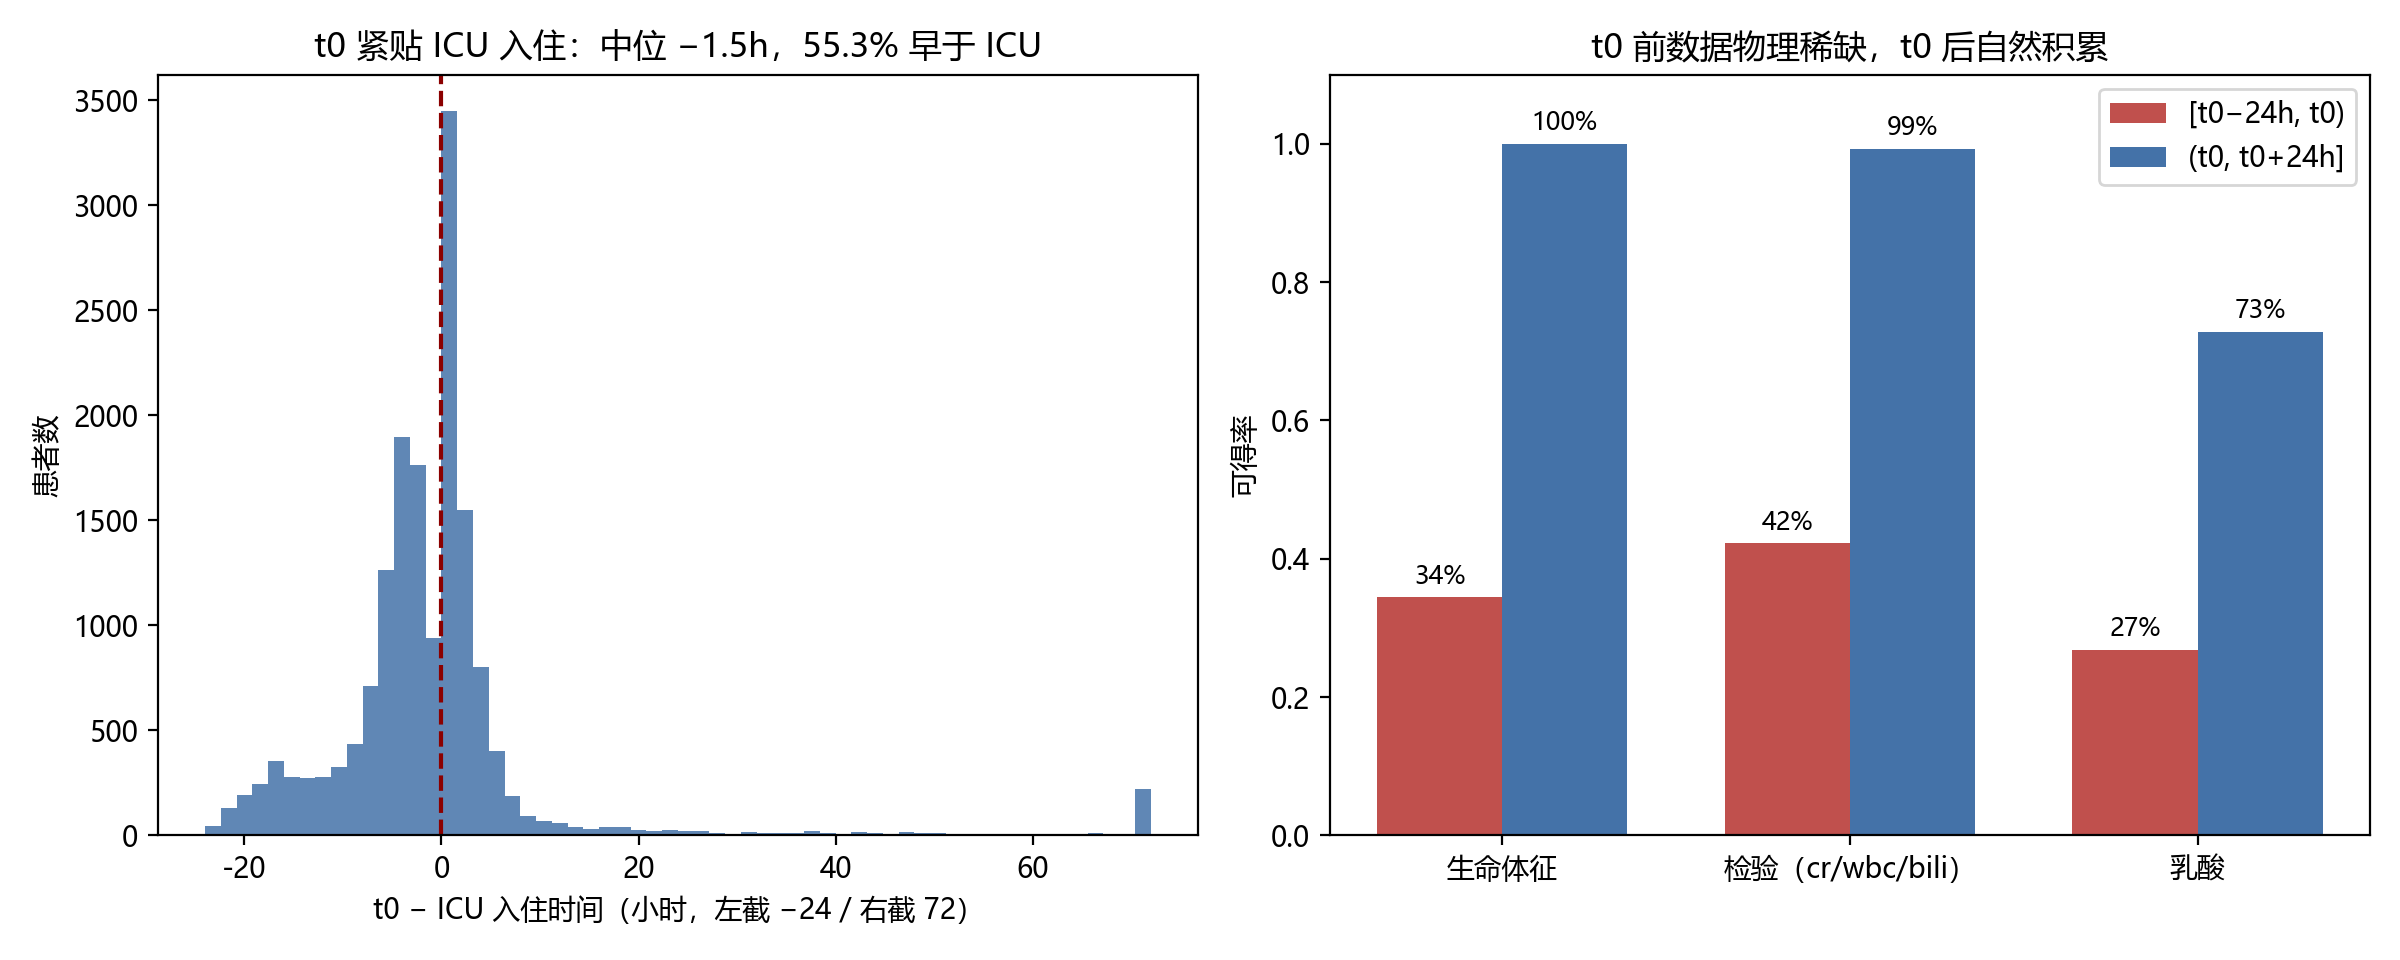
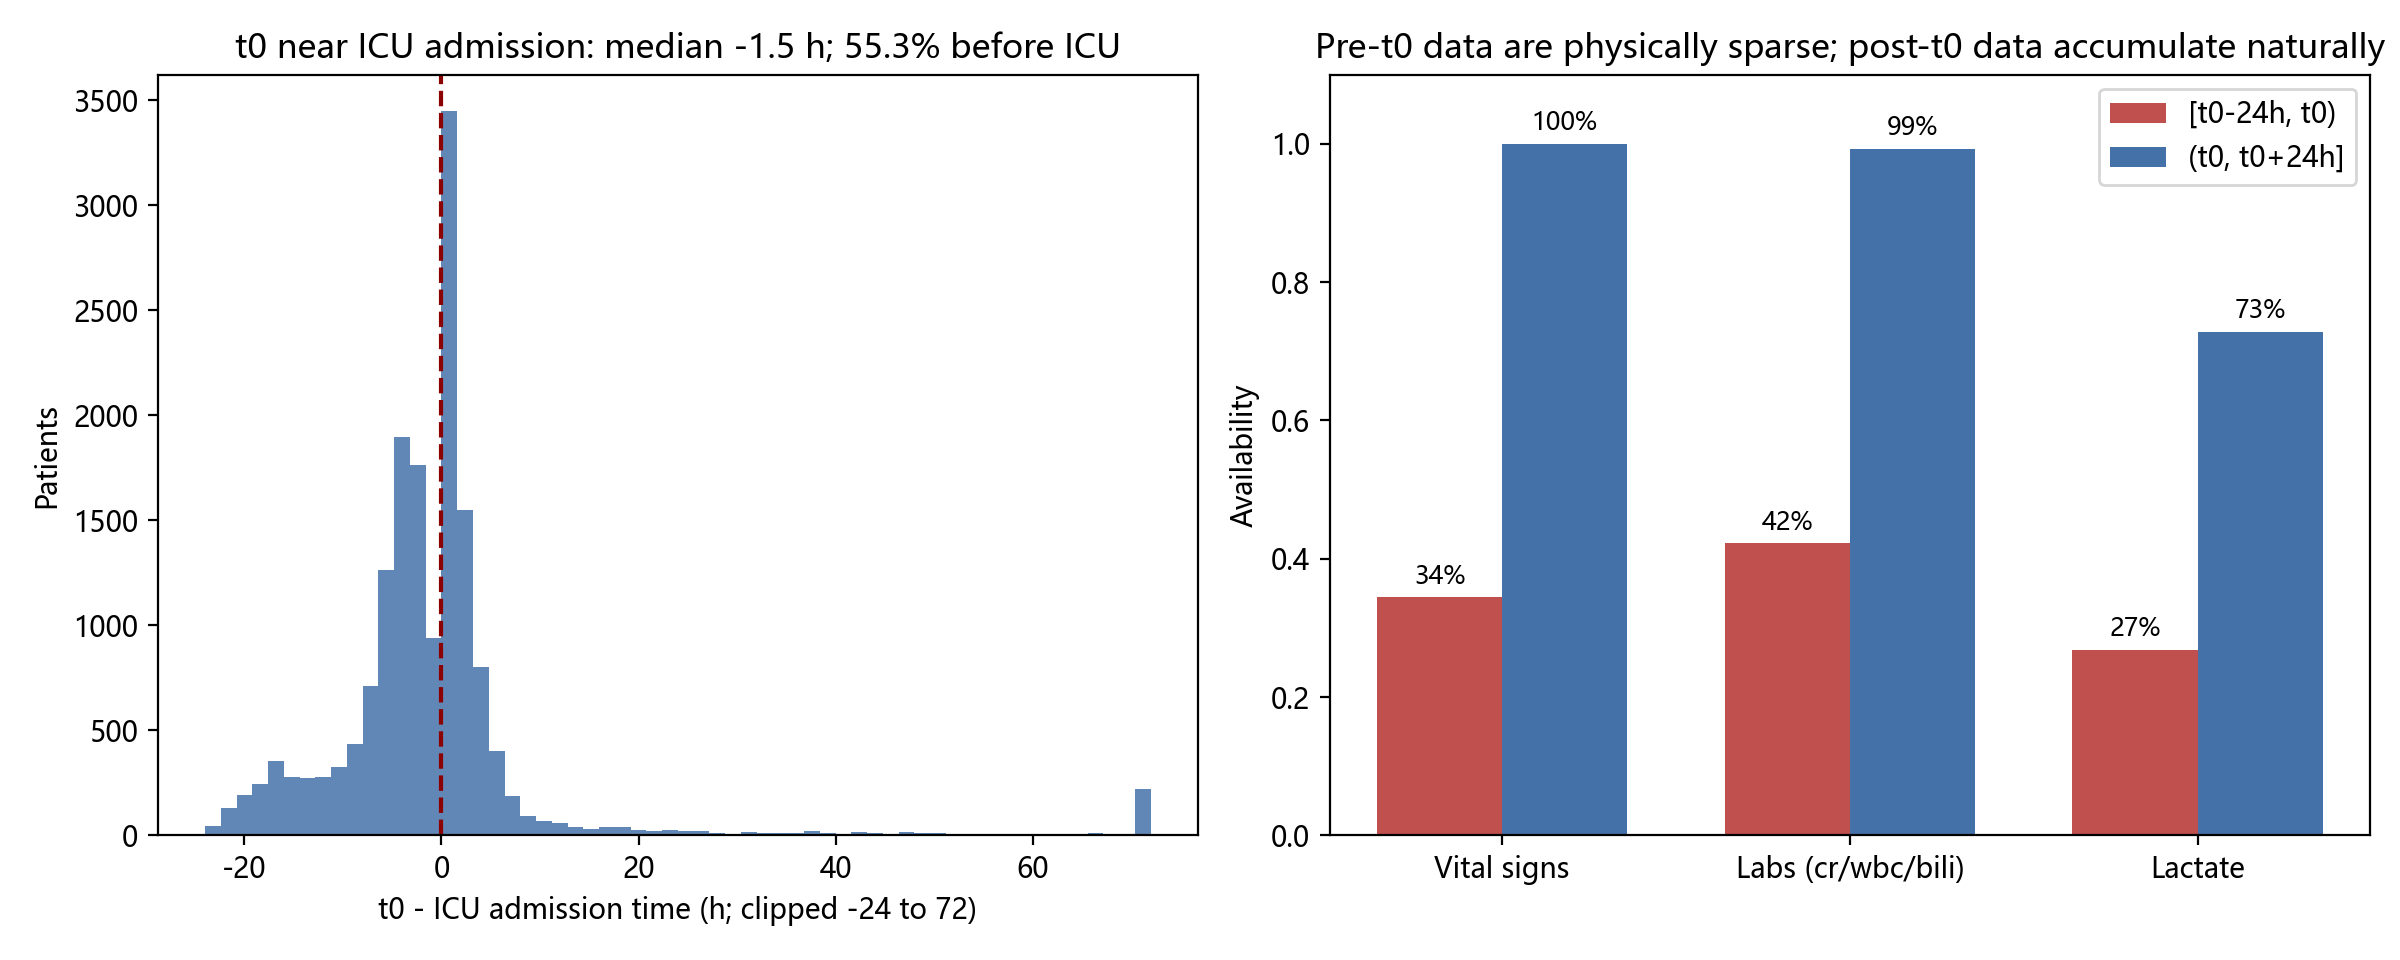
Figure 9 时间结构图改为英文标签

diff --git a/src/timing_structure.py b/src/timing_structure.py
@@ -66,48 +66,51 @@ def main() -> None:
         av[c_] = av[c_].fillna(0)
 
     stats_rows = [
-        ("t0 - icu_intime 中位数（h）", f"{dt_h.median():.2f}"),
-        ("t0 - icu_intime IQR（h）", f"{dt_h.quantile(0.25):.2f} ~ {dt_h.quantile(0.75):.2f}"),
-        ("t0 早于 ICU 入住比例", f"{(dt_h < 0).mean():.1%}"),
-        ("t0 在 ICU 入住 ±6h 内比例", f"{(dt_h.abs() <= 6).mean():.1%}"),
-        ("生命体征 [t0-24h,t0) 可得率", f"{av['vit_pre'].mean():.1%}"),
-        ("生命体征 (t0,t0+24h] 可得率", f"{av['vit_post'].mean():.1%}"),
-        ("检验 [t0-24h,t0) 可得率", f"{av['lab_pre'].mean():.1%}"),
-        ("检验 (t0,t0+24h] 可得率", f"{av['lab_post'].mean():.1%}"),
-        ("乳酸 [t0-24h,t0) 可得率", f"{av['lac_pre'].mean():.1%}"),
-        ("乳酸 (t0,t0+24h] 可得率", f"{av['lac_post'].mean():.1%}"),
+        ("t0 - ICU admission time, median (h)", f"{dt_h.median():.2f}"),
+        ("t0 - ICU admission time, IQR (h)", f"{dt_h.quantile(0.25):.2f} ~ {dt_h.quantile(0.75):.2f}"),
+        ("t0 before ICU admission", f"{(dt_h < 0).mean():.1%}"),
+        ("t0 within +-6 h of ICU admission", f"{(dt_h.abs() <= 6).mean():.1%}"),
+        ("Vital signs [t0-24h,t0) availability", f"{av['vit_pre'].mean():.1%}"),
+        ("Vital signs (t0,t0+24h] availability", f"{av['vit_post'].mean():.1%}"),
+        ("Laboratory tests [t0-24h,t0) availability", f"{av['lab_pre'].mean():.1%}"),
+        ("Laboratory tests (t0,t0+24h] availability", f"{av['lab_post'].mean():.1%}"),
+        ("Lactate [t0-24h,t0) availability", f"{av['lac_pre'].mean():.1%}"),
+        ("Lactate (t0,t0+24h] availability", f"{av['lac_post'].mean():.1%}"),
     ]
-    stats_df = pd.DataFrame(stats_rows, columns=["指标", "数值"])
+    stats_df = pd.DataFrame(stats_rows, columns=["Metric", "Value"])
     stats_df.to_csv(results_dir / "timing_structure.csv", index=False,
                     encoding="utf-8-sig")
     print(stats_df.to_string(index=False))
 
     # 双联图
+    # Two-panel figure
     fig, axes = plt.subplots(1, 2, figsize=(12, 4.8))
     ax = axes[0]
-    ax.hist(dt_h.clip(-24, 72), bins=60, color="#4472a8", alpha=0.85)
-    ax.axvline(0, color="darkred", ls="--", lw=1.5)
-    ax.set_xlabel("t0 − ICU 入住时间（小时，左截 −24 / 右截 72）")
-    ax.set_ylabel("患者数")
-    ax.set_title("t0 紧贴 ICU 入住：中位 −1.5h，55.3% 早于 ICU")
+    ax.hist(dt_h.clip(-24, 72), bins=60, color='#4472a8', alpha=0.85)
+    ax.axvline(0, color='darkred', ls='--', lw=1.5)
+    ax.set_xlabel('t0 - ICU admission time (h; clipped -24 to 72)')
+    ax.set_ylabel('Patients')
+    ax.set_title(f't0 near ICU admission: median {dt_h.median():.1f} h; '
+
+                 f'{100 * (dt_h < 0).mean():.1f}% before ICU')
 
     ax = axes[1]
-    groups = ["生命体征", "检验（cr/wbc/bili）", "乳酸"]
-    pre = [av["vit_pre"].mean(), av["lab_pre"].mean(), av["lac_pre"].mean()]
-    post = [av["vit_post"].mean(), av["lab_post"].mean(), av["lac_post"].mean()]
+    groups = ['Vital signs', 'Labs (cr/wbc/bili)', 'Lactate']
+    pre = [av['vit_pre'].mean(), av['lab_pre'].mean(), av['lac_pre'].mean()]
+    post = [av['vit_post'].mean(), av['lab_post'].mean(), av['lac_post'].mean()]
     x = np.arange(len(groups))
-    ax.bar(x - 0.18, pre, 0.36, label="[t0−24h, t0)", color="#c0504d")
-    ax.bar(x + 0.18, post, 0.36, label="(t0, t0+24h]", color="#4472a8")
+    ax.bar(x - 0.18, pre, 0.36, label='[t0-24h, t0)', color='#c0504d')
+    ax.bar(x + 0.18, post, 0.36, label='(t0, t0+24h]', color='#4472a8')
     for i, (p1, p2) in enumerate(zip(pre, post)):
-        ax.text(i - 0.18, p1 + 0.02, f"{p1:.0%}", ha="center", fontsize=9)
-        ax.text(i + 0.18, p2 + 0.02, f"{p2:.0%}", ha="center", fontsize=9)
+        ax.text(i - 0.18, p1 + 0.02, f'{p1:.0%}', ha='center', fontsize=9)
+        ax.text(i + 0.18, p2 + 0.02, f'{p2:.0%}', ha='center', fontsize=9)
     ax.set_xticks(x, groups)
     ax.set_ylim(0, 1.1)
-    ax.set_ylabel("可得率")
-    ax.set_title("t0 前数据物理稀缺，t0 后自然积累")
+    ax.set_ylabel('Availability')
+    ax.set_title('Pre-t0 data are physically sparse; post-t0 data accumulate naturally')
     ax.legend()
     fig.tight_layout()
-    fig.savefig(results_dir / "figures" / "timing_structure.png", dpi=200)
+    fig.savefig(results_dir / 'figures' / 'timing_structure.png', dpi=200)
     print("\n输出 -> results/timing_structure.csv, results/figures/timing_structure.png")
 
 
